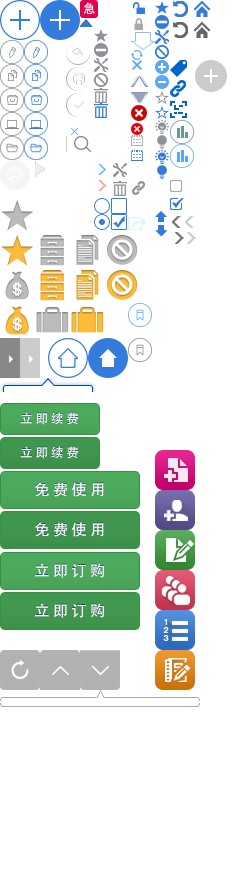
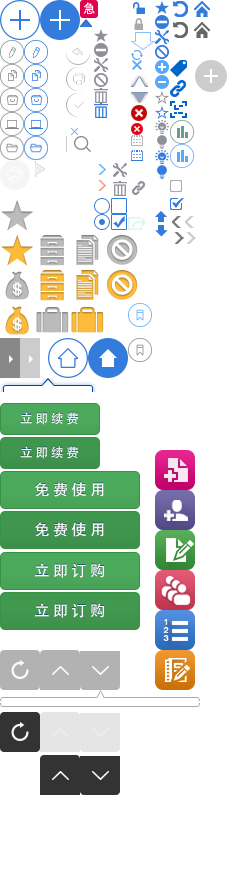
css

Changed region(s): [[0.0, 0.7879, 0.5431, 0.9091]]

diff --git a/template/list_doing.html b/template/list_doing.html
@@ -86,11 +86,11 @@
             <!--申请进行中begin-->
             <div class="list_doing">
                 <!--卡片组begin-->
-                <div class="card_out" style="height:449px;">
+                <div class="card_out" style="height:440px;">
                     <div class="r_btn">
                         <!--<a href="javascript:;" class="Icon ico-q"></a>-->
                         <a href="javascript:;" class="Icon ico-re"></a>
-                        <a href="javascript:;" class="Icon ico-prev"></a>
+                        <a href="javascript:;" class="Icon ico-prev nodate"></a>
                         <a href="javascript:;" class="Icon ico-next"></a>
                     </div>
                     <div class="card_box_in" style="top:0;"><!--控制 card_box_in 的 top 来实现上下滚动-->
@@ -108,7 +108,6 @@
                                             <p class="card_number"><em>单据编号：</em><span class="color-3">KQ20141210003</span></p>
                                         </div>
                                         <div class="card_time">
-                                            <p class="font14 txt_hidden">审批意见：<span class="color-3">资料不全，请仔细阅读相仔细阅读相仔细阅读相仔细阅读相关文</span></p>
                                             <div class="process_bar"><span class="process_bar_in" style="width:46%;"></span></div>
                                             <p><span>申请日期：</span>2014-12-01 13:34</p>
                                         </div>
@@ -126,7 +125,6 @@
                                             <p class="card_number"><em>单据编号：</em><span class="color-3">KQ20141210003</span></p>
                                         </div>
                                         <div class="card_time">
-                                            <p class="font14 txt_hidden">审批意见：<span class="color-3">资料不全，请仔细阅读相仔细阅读相仔细阅读相仔细阅读相关文</span></p>
                                             <div class="process_bar"><span class="process_bar_in" style="width:46%;"></span></div>
                                             <p><span>申请日期：</span>2014-12-01 13:34</p>
                                         </div>
@@ -144,7 +142,6 @@
                                             <p class="card_number"><em>单据编号：</em><span class="color-3">KQ20141210003</span></p>
                                         </div>
                                         <div class="card_time">
-                                            <p class="font14 txt_hidden">审批意见：<span class="color-3">资料不全，请仔细阅读相仔细阅读相仔细阅读相仔细阅读相关文</span></p>
                                             <div class="process_bar"><span class="process_bar_in" style="width:46%;"></span></div>
                                             <p><span>申请日期：</span>2014-12-01 13:34</p>
                                         </div>
@@ -162,7 +159,6 @@
                                             <p class="card_number"><em>单据编号：</em><span class="color-3">KQ20141210003</span></p>
                                         </div>
                                         <div class="card_time">
-                                            <p class="font14 txt_hidden">审批意见：<span class="color-3">资料不全，请仔细阅读相仔细阅读相仔细阅读相仔细阅读相关文</span></p>
                                             <div class="process_bar"><span class="process_bar_in" style="width:46%;"></span></div>
                                             <p><span>申请日期：</span>2014-12-01 13:34</p>
                                         </div>
@@ -180,7 +176,6 @@
                                             <p class="card_number"><em>单据编号：</em><span class="color-3">KQ20141210003</span></p>
                                         </div>
                                         <div class="card_time">
-                                            <p class="font14 txt_hidden">审批意见：<span class="color-3">资料不全，请仔细阅读相仔细阅读相仔细阅读相仔细阅读相关文</span></p>
                                             <div class="process_bar"><span class="process_bar_in" style="width:46%;"></span></div>
                                             <p><span>申请日期：</span>2014-12-01 13:34</p>
                                         </div>
@@ -198,119 +193,6 @@
                                             <p class="card_number"><em>单据编号：</em><span class="color-3">KQ20141210003</span></p>
                                         </div>
                                         <div class="card_time">
-                                            <p class="font14 txt_hidden">审批意见：<span class="color-3">资料不全，请仔细阅读相仔细阅读相仔细阅读相仔细阅读相关文</span></p>
-                                            <div class="process_bar"><span class="process_bar_in" style="width:46%;"></span></div>
-                                            <p><span>申请日期：</span>2014-12-01 13:34</p>
-                                        </div>
-                                    </div>
-                                </li>
-                            </ul>
-                        </div>
-                        <div class="card_box">
-                            <ul class="card_list clearfix">
-                                <li class="box current card_theme1">
-                                    <div class="card_in">
-                                        <p class="card_title alignright">
-                                            <span class="floatleft">考勤申请</span>
-                                        </p>
-                                        <div class="card_in_main clearfix">
-                                            <span class="UserImg inlineblock floatleft ie-css3"><img src="../img/1.png"></span>
-                                            <p><em>审批流：</em><i>11/11</i>步</p>
-                                            <p><em>审批人：</em><span class="color-3">张睿</span></p>
-                                            <p class="card_number"><em>单据编号：</em><span class="color-3">KQ20141210003</span></p>
-                                        </div>
-                                        <div class="card_time">
-                                            <p class="font14 txt_hidden">审批意见：<span class="color-3">资料不全，请仔细阅读相仔细阅读相仔细阅读相仔细阅读相关文</span></p>
-                                            <div class="process_bar"><span class="process_bar_in" style="width:46%;"></span></div>
-                                            <p><span>申请日期：</span>2014-12-01 13:34</p>
-                                        </div>
-                                    </div>
-                                </li>
-                                <li class="box current card_theme2">
-                                    <div class="card_in">
-                                        <p class="card_title alignright">
-                                            <span class="floatleft">考勤申请</span>
-                                        </p>
-                                        <div class="card_in_main clearfix">
-                                            <span class="UserImg inlineblock floatleft ie-css3"><img src="../img/1.png"></span>
-                                            <p><em>审批流：</em><i>11/11</i>步</p>
-                                            <p><em>审批人：</em><span class="color-3">张睿</span></p>
-                                            <p class="card_number"><em>单据编号：</em><span class="color-3">KQ20141210003</span></p>
-                                        </div>
-                                        <div class="card_time">
-                                            <p class="font14 txt_hidden">审批意见：<span class="color-3">资料不全，请仔细阅读相仔细阅读相仔细阅读相仔细阅读相关文</span></p>
-                                            <div class="process_bar"><span class="process_bar_in" style="width:46%;"></span></div>
-                                            <p><span>申请日期：</span>2014-12-01 13:34</p>
-                                        </div>
-                                    </div>
-                                </li>
-                                <li class="box current card_theme3">
-                                    <div class="card_in">
-                                        <p class="card_title alignright">
-                                            <span class="floatleft">考勤申请</span>
-                                        </p>
-                                        <div class="card_in_main clearfix">
-                                            <span class="UserImg inlineblock floatleft ie-css3"><img src="../img/1.png"></span>
-                                            <p><em>审批流：</em><i>11/11</i>步</p>
-                                            <p><em>审批人：</em><span class="color-3">张睿</span></p>
-                                            <p class="card_number"><em>单据编号：</em><span class="color-3">KQ20141210003</span></p>
-                                        </div>
-                                        <div class="card_time">
-                                            <p class="font14 txt_hidden">审批意见：<span class="color-3">资料不全，请仔细阅读相仔细阅读相仔细阅读相仔细阅读相关文</span></p>
-                                            <div class="process_bar"><span class="process_bar_in" style="width:46%;"></span></div>
-                                            <p><span>申请日期：</span>2014-12-01 13:34</p>
-                                        </div>
-                                    </div>
-                                </li>
-                                <li class="box current card_theme4">
-                                    <div class="card_in">
-                                        <p class="card_title alignright">
-                                            <span class="floatleft">考勤申请</span>
-                                        </p>
-                                        <div class="card_in_main clearfix">
-                                            <span class="UserImg inlineblock floatleft ie-css3"><img src="../img/1.png"></span>
-                                            <p><em>审批流：</em><i>11/11</i>步</p>
-                                            <p><em>审批人：</em><span class="color-3">张睿</span></p>
-                                            <p class="card_number"><em>单据编号：</em><span class="color-3">KQ20141210003</span></p>
-                                        </div>
-                                        <div class="card_time">
-                                            <p class="font14 txt_hidden">审批意见：<span class="color-3">资料不全，请仔细阅读相仔细阅读相仔细阅读相仔细阅读相关文</span></p>
-                                            <div class="process_bar"><span class="process_bar_in" style="width:46%;"></span></div>
-                                            <p><span>申请日期：</span>2014-12-01 13:34</p>
-                                        </div>
-                                    </div>
-                                </li>
-                                <li class="box current card_theme5">
-                                    <div class="card_in">
-                                        <p class="card_title alignright">
-                                            <span class="floatleft">考勤申请</span>
-                                        </p>
-                                        <div class="card_in_main clearfix">
-                                            <span class="UserImg inlineblock floatleft ie-css3"><img src="../img/1.png"></span>
-                                            <p><em>审批流：</em><i>11/11</i>步</p>
-                                            <p><em>审批人：</em><span class="color-3">张睿</span></p>
-                                            <p class="card_number"><em>单据编号：</em><span class="color-3">KQ20141210003</span></p>
-                                        </div>
-                                        <div class="card_time">
-                                            <p class="font14 txt_hidden">审批意见：<span class="color-3">资料不全，请仔细阅读相仔细阅读相仔细阅读相仔细阅读相关文</span></p>
-                                            <div class="process_bar"><span class="process_bar_in" style="width:46%;"></span></div>
-                                            <p><span>申请日期：</span>2014-12-01 13:34</p>
-                                        </div>
-                                    </div>
-                                </li>
-                                <li class="box current card_theme6">
-                                    <div class="card_in">
-                                        <p class="card_title alignright">
-                                            <span class="floatleft">考勤申请</span>
-                                        </p>
-                                        <div class="card_in_main clearfix">
-                                            <span class="UserImg inlineblock floatleft ie-css3"><img src="../img/1.png"></span>
-                                            <p><em>审批流：</em><i>11/11</i>步</p>
-                                            <p><em>审批人：</em><span class="color-3">张睿</span></p>
-                                            <p class="card_number"><em>单据编号：</em><span class="color-3">KQ20141210003</span></p>
-                                        </div>
-                                        <div class="card_time">
-                                            <p class="font14 txt_hidden">审批意见：<span class="color-3">资料不全，请仔细阅读相仔细阅读相仔细阅读相仔细阅读相关文</span></p>
                                             <div class="process_bar"><span class="process_bar_in" style="width:46%;"></span></div>
                                             <p><span>申请日期：</span>2014-12-01 13:34</p>
                                         </div>

diff --git a/template/home.html b/template/home.html
@@ -145,7 +145,11 @@
                                             <p><em>审批人：</em><span class="color-3">张睿</span></p>
                                             <p class="card_number"><em>单据编号：</em><span class="color-3">KQ20141210003</span></p>
                                         </div>
-                                        <p class="card_time"><span>申请日期：</span>2014-12-01 13:34</p>
+                                        <div class="card_time">
+                                            <p class="font14 txt_hidden">审批意见：<span class="color-3">资料不全，请仔细阅读相仔细阅读相仔细阅读相仔细阅读相关文</span></p>
+                                            <div class="process_bar"><span class="process_bar_in" style="width:46%;"></span></div>
+                                            <p><span>申请日期：</span>2014-12-01 13:34</p>
+                                        </div>
                                     </div>
                                 </li>
                                 <li class="box card_theme3">
@@ -160,7 +164,11 @@
                                             <p><em>审批人：</em><span class="color-3">张睿</span></p>
                                             <p class="card_number"><em>单据编号：</em><span class="color-3">KQ20141210003</span></p>
                                         </div>
-                                        <p class="card_time"><span>申请日期：</span>2014-12-01 13:34</p>
+                                        <div class="card_time">
+                                            <p class="font14 txt_hidden">审批意见：<span class="color-3">资料不全，请仔细阅读相仔细阅读相仔细阅读相仔细阅读相关文</span></p>
+                                            <div class="process_bar"><span class="process_bar_in" style="width:46%;"></span></div>
+                                            <p><span>申请日期：</span>2014-12-01 13:34</p>
+                                        </div>
                                     </div>
                                 </li>
                                 <li class="box card_theme4">
@@ -175,7 +183,11 @@
                                             <p><em>审批人：</em><span class="color-3">张睿</span></p>
                                             <p class="card_number"><em>单据编号：</em><span class="color-3">KQ20141210003</span></p>
                                         </div>
-                                        <p class="card_time"><span>申请日期：</span>2014-12-01 13:34</p>
+                                        <div class="card_time">
+                                            <p class="font14 txt_hidden">审批意见：<span class="color-3">资料不全，请仔细阅读相仔细阅读相仔细阅读相仔细阅读相关文</span></p>
+                                            <div class="process_bar"><span class="process_bar_in" style="width:46%;"></span></div>
+                                            <p><span>申请日期：</span>2014-12-01 13:34</p>
+                                        </div>
                                     </div>
                                 </li>
                                 <li class="box card_theme5">
@@ -190,7 +202,11 @@
                                             <p><em>审批人：</em><span class="color-3">张睿</span></p>
                                             <p class="card_number"><em>单据编号：</em><span class="color-3">KQ20141210003</span></p>
                                         </div>
-                                        <p class="card_time"><span>申请日期：</span>2014-12-01 13:34</p>
+                                        <div class="card_time">
+                                            <p class="font14 txt_hidden">审批意见：<span class="color-3">资料不全，请仔细阅读相仔细阅读相仔细阅读相仔细阅读相关文</span></p>
+                                            <div class="process_bar"><span class="process_bar_in" style="width:46%;"></span></div>
+                                            <p><span>申请日期：</span>2014-12-01 13:34</p>
+                                        </div>
                                     </div>
                                 </li>
                                 <li class="box card_theme6">
@@ -205,7 +221,11 @@
                                             <p><em>审批人：</em><span class="color-3">张睿</span></p>
                                             <p class="card_number"><em>单据编号：</em><span class="color-3">KQ20141210003</span></p>
                                         </div>
-                                        <p class="card_time"><span>申请日期：</span>2014-12-01 13:34</p>
+                                        <div class="card_time">
+                                            <p class="font14 txt_hidden">审批意见：<span class="color-3">资料不全，请仔细阅读相仔细阅读相仔细阅读相仔细阅读相关文</span></p>
+                                            <div class="process_bar"><span class="process_bar_in" style="width:46%;"></span></div>
+                                            <p><span>申请日期：</span>2014-12-01 13:34</p>
+                                        </div>
                                     </div>
                                 </li>
                                 <li class="box">7</li>

diff --git a/css/style.css b/css/style.css
@@ -18,6 +18,11 @@
 .ico-re{background-position:0 -650px;margin-bottom:10px;margin-top:90px;}
 .ico-next{background-position:-80px -650px;margin-top:-2px;}
 .ico-q{width:18px;height:18px;background-position:-110px -428px;}
+.ico-re:hover{background-position:0 -712px;}
+.ico-next:hover{background-position:-80px -755px;}
+.ico-prev:hover{background-position:-40px -755px;}
+.ico-next.nodate{background-position:-80px -712px;cursor: default;}
+.ico-prev.nodate{background-position:-40px -712px;cursor: default;}
 /*色球*/
 .color_mark em{font-size:14px;}
 .color_mark .Icon{width:14px;height:14px;border-radius:50%;behavior: url(../css/PIE.htc);background:none;vertical-align: -2px;margin-right:5px;}
@@ -84,14 +89,18 @@ src: url('TitilliumTitle01-Thin.eot?#iefix') format('embedded-opentype'), /* IE6
 .card_list li.current .card_title,.card_list li.current .card_time{height:30px;line-height:30px;font-size:16px;transition:0.5s;}
 .card_list li.current .card_time{font-size:12px;min-height:30px;padding:4px 0;height:auto;line-height:24px;}
 .card_list li.current .card_time p{padding-left:10px;}
-.card_list li.current .card_time p.txt_hidden{width:305px;}
+.card_list li .card_time p.txt_hidden{display: none;}
+.card_list li.current .card_time p.txt_hidden{display:block;width:305px;}
 .card_list li.current .card_time span{margin:0;transition:0.5s;}
 .card_list li.current .UserImg,.card_list li.current .UserImg img{width:70px;height:70px;}
 .card_list li.current .card_in_main p *{font-size:14px;padding-top:7px;}
 .card_list li.current .card_in_main p.card_number{display: block;}
 .card_list li.current .card_in_main p em{display:inline-block;width:75px;text-align: right;}
-.process_bar{height:5px;position:relative;width:100%;background:#ccc;margin:2px 0;}
+.process_bar{height:5px;position:relative;width:100%;background:#ccc;margin:2px 0;display: none;}
 .process_bar span.process_bar_in{display:inline-block;position:absolute;left:0;top:0;height:5px;transition:0.4s;}
+.card_list li.current .process_bar{display: block;}
+
+
 .card_theme1 .card_title{background:#5bb259;}
 .card_theme1 .card_in_main p i{color:#5bb259;}
 .card_theme1 span.process_bar_in{background:#5bb259;}
@@ -112,10 +121,12 @@ src: url('TitilliumTitle01-Thin.eot?#iefix') format('embedded-opentype'), /* IE6
 .card_theme6 span.process_bar_in{background:#ec6941;}
 
 
-
-.list_doing .card_box{width:1000px;margin-left:0;}
-.list_doing .card_list{width:1000px;}
-.list_doing .card_list li{margin:0 0 20px 15px;}
+.list_doing .r_btn{right:0;bottom:17px;}
+.list_doing .card_box{width:900px;margin-left:0;}
+.list_doing .card_box_in{left:50%;margin-left:-450px;}
+.list_doing .card_list{width:900px;}
+.list_doing .card_list li{margin:0 0 20px 15px;width: 285px;height:200px;}
+.list_doing .card_list li .card_time{border-top:0;}
 .list_doing .card_list li .card_title{background:none!important;color:#333;border-bottom:1px solid #ccc;}
 .list_doing .card_list li .card_in_main p{font-size:14px;}
 .list_doing .card_list li .card_in_main p i{color:#e49436;}
@@ -147,7 +158,7 @@ src: url('TitilliumTitle01-Thin.eot?#iefix') format('embedded-opentype'), /* IE6
 .user_li li p{position: relative;bottom:-7px;}
 .list_table tbody div.inner_td .user_li li .UserImg,.list_table tbody div.inner_td .user_li li .UserImg img{width:32px;height:32px;}
 .user_li li:hover{border-left-color:#347cdc;transition:0.3s;}
-.right_main{width:800px;background:#fff;position:absolute;top:40px;right:0;bottom:0;border-left:1px solid #8b8b8b;z-index:20;}
+.right_main{width:800px;background:#fff;position:absolute;top:0;right:0;bottom:0;border-left:1px solid #8b8b8b;z-index:200;}
 .right_main a{color:#333;}
 .AppDetail_in{width:100%;height:100%;position: relative;}
 .AppMakeBtn a{color:#fff;}

diff --git a/css/global.css b/css/global.css
@@ -155,7 +155,7 @@ a.add:hover{text-decoration: underline;}
 /*.Btn:hover,.AppMakeBtn .Btn.current{background-color:#002059;border: 1px solid #2e5cac;height:29px;line-height: 29px;}*/
 .AppDetail_in .AppMakeBtn .Btn:hover,.AppDetail_in .AppMakeBtn .Btn.current,.Btn.current{background:#347cdc;color: #fff;}
 .AppDetail_in .AppMakeBtn .btn-acc{width:45px;margin-left:-1px;border-left:1px solid #2b2b2e;}
-.AppDetail_in .AppMakeBtn .btn-acc .Icon{left:0;}
+.AppDetail_in .AppMakeBtn .btn-acc .Icon{left:0;top:8px;}
 .btn-quit,.btn-sure,.Btn-normal{color:#666;min-width:60px;border-left:1px solid #ccc;border-right:1px solid #ccc;text-align: center;}
 .btn-make:hover,.Btn-normal:hover{color:#fff;}
 .btn-sure{border:0;border-bottom-right-radius:2px;}
@@ -331,7 +331,7 @@ li.current .ico-07,.NewBar ul li:hover .ico-07{background-position:-170px -144px
   0%   { transform: rotate(0deg); }
   100% { transform: rotate(360deg); }
 }
-.mask{width: 100%;height: 100%;background:#000;opacity:0.6;filter:Alpha(Opacity=60);position: fixed;top:0;left:0;z-index:100;}
+.mask{width: 100%;height: 100%;position: fixed;top:0;left:0;z-index:100;}
 .contact .mask{width:60px;height:60px;line-height:60px;text-align: center;color: #fff;border-radius: 3px;position: absolute;font-size: 30px;top:50%;left:50%;margin:-30px 0 0 -30px;}
 .pop{position:absolute;border-radius:4px;z-index:120;left:50%;top:50%;width:700px;margin:-275px 0 0 -350px;background-color: #fff;border:1px solid #347cdc;}
 .popIn{padding: 10px 15px;padding-top:0;}

diff --git a/template/n_list.html b/template/n_list.html
@@ -500,9 +500,12 @@
         <!--主要内容over-->
         <!--右侧滑出的表单详情 附件begin-->
         <div class="right_main AppDetail" style="right:0;">
-            <iframe allowtransparency="true" allowtransparency="true" src="list.html" width="800" height="955" frameborder="0" scrolling="no"></iframe>
+            <iframe allowtransparency="true" allowtransparency="true" src="list.html" width="800" height="100%" frameborder="0" scrolling="no"></iframe>
         </div>
         <!--右侧滑出的表单详情 附件over-->
+        <!--遮罩层begin-->
+        <div class="mask"></div>
+        <!--遮罩层over-->
     </div>
 </div>
 <link rel="stylesheet" type="text/css" href="../css/jscrollpane.css">
